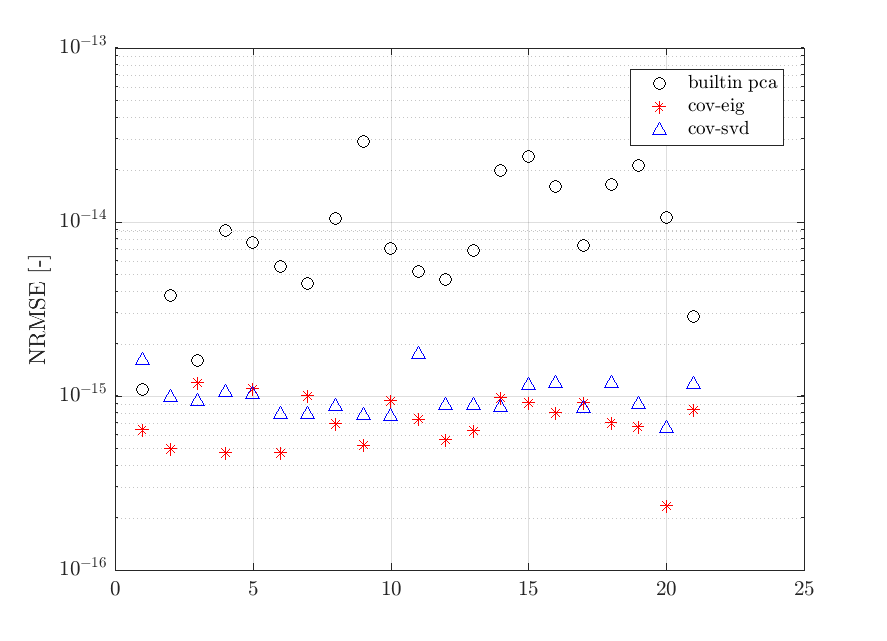
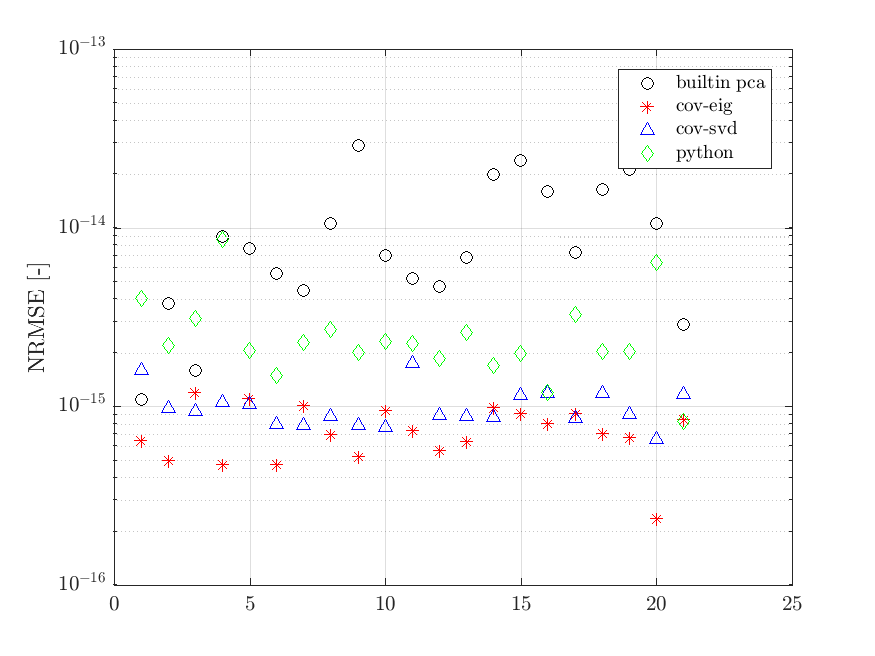
Added PCA with Python for comparison

diff --git a/unsolved-mysteries/README.md b/unsolved-mysteries/README.md
@@ -25,6 +25,29 @@ Z_cov_svd = X_cs * A_cov_svd;
 X_tilde_cov_svd = Z_cov_svd * A_cov_svd';
 ```
 
+For comparison, PCA done with Python is also added:
+
+```Python
+import numpy as np
+from sklearn.decomposition import PCA
+import pandas as pd
+
+# Data set:
+X_cs = pd.read_csv('X_cs.csv', sep = ',', header=None).to_numpy()
+
+# Perform PCA
+pca = PCA()
+pca.fit(X_cs)
+scores = pca.transform(X_cs)
+PCs = pca.components_
+eigvals = pca.explained_variance_ratio_
+
+Dataset_approx = np.dot(scores, PCs)
+
+np.savetxt('X_app_X_cs.csv', (Dataset_approx), delimiter=',', fmt='%1.32f')
+np.savetxt('eigvals_python.csv', (eigvals), delimiter=',', fmt='%1.32f')
+```
+
 The normalized Root Mean Squared error for the reconstruction of the original data set is different:
 
 ![Screenshot](NRMSE-PCA-comparison.png)
